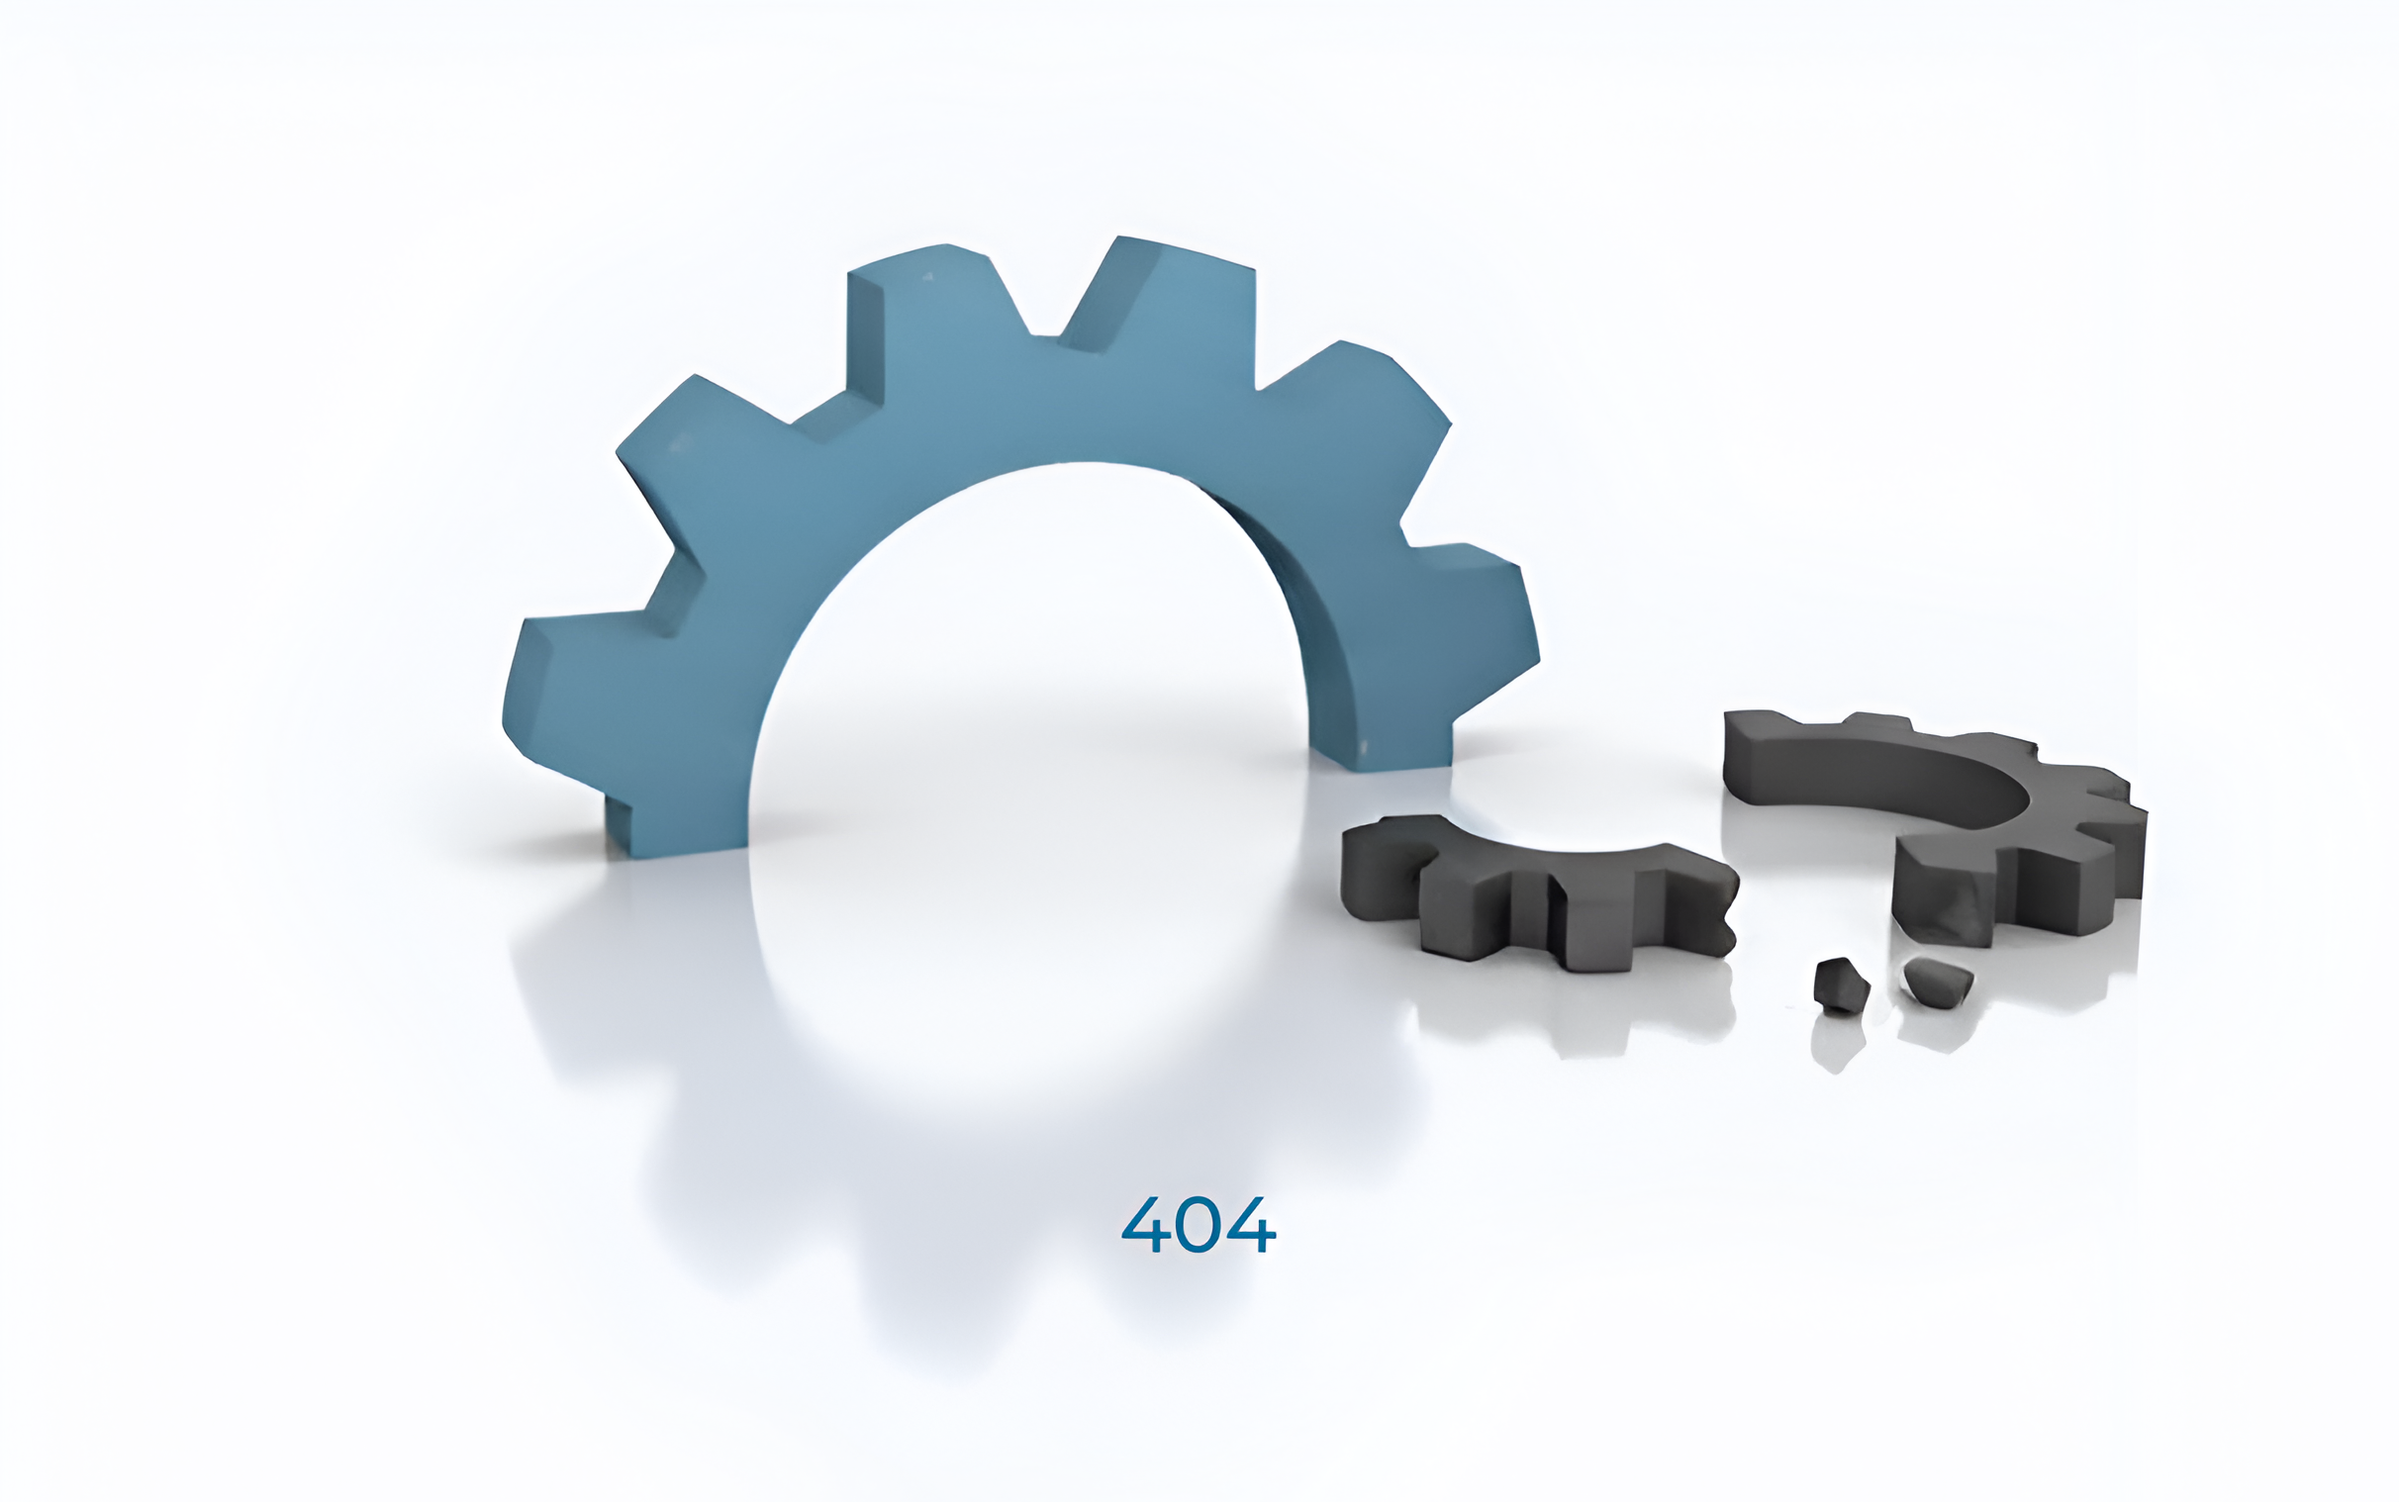
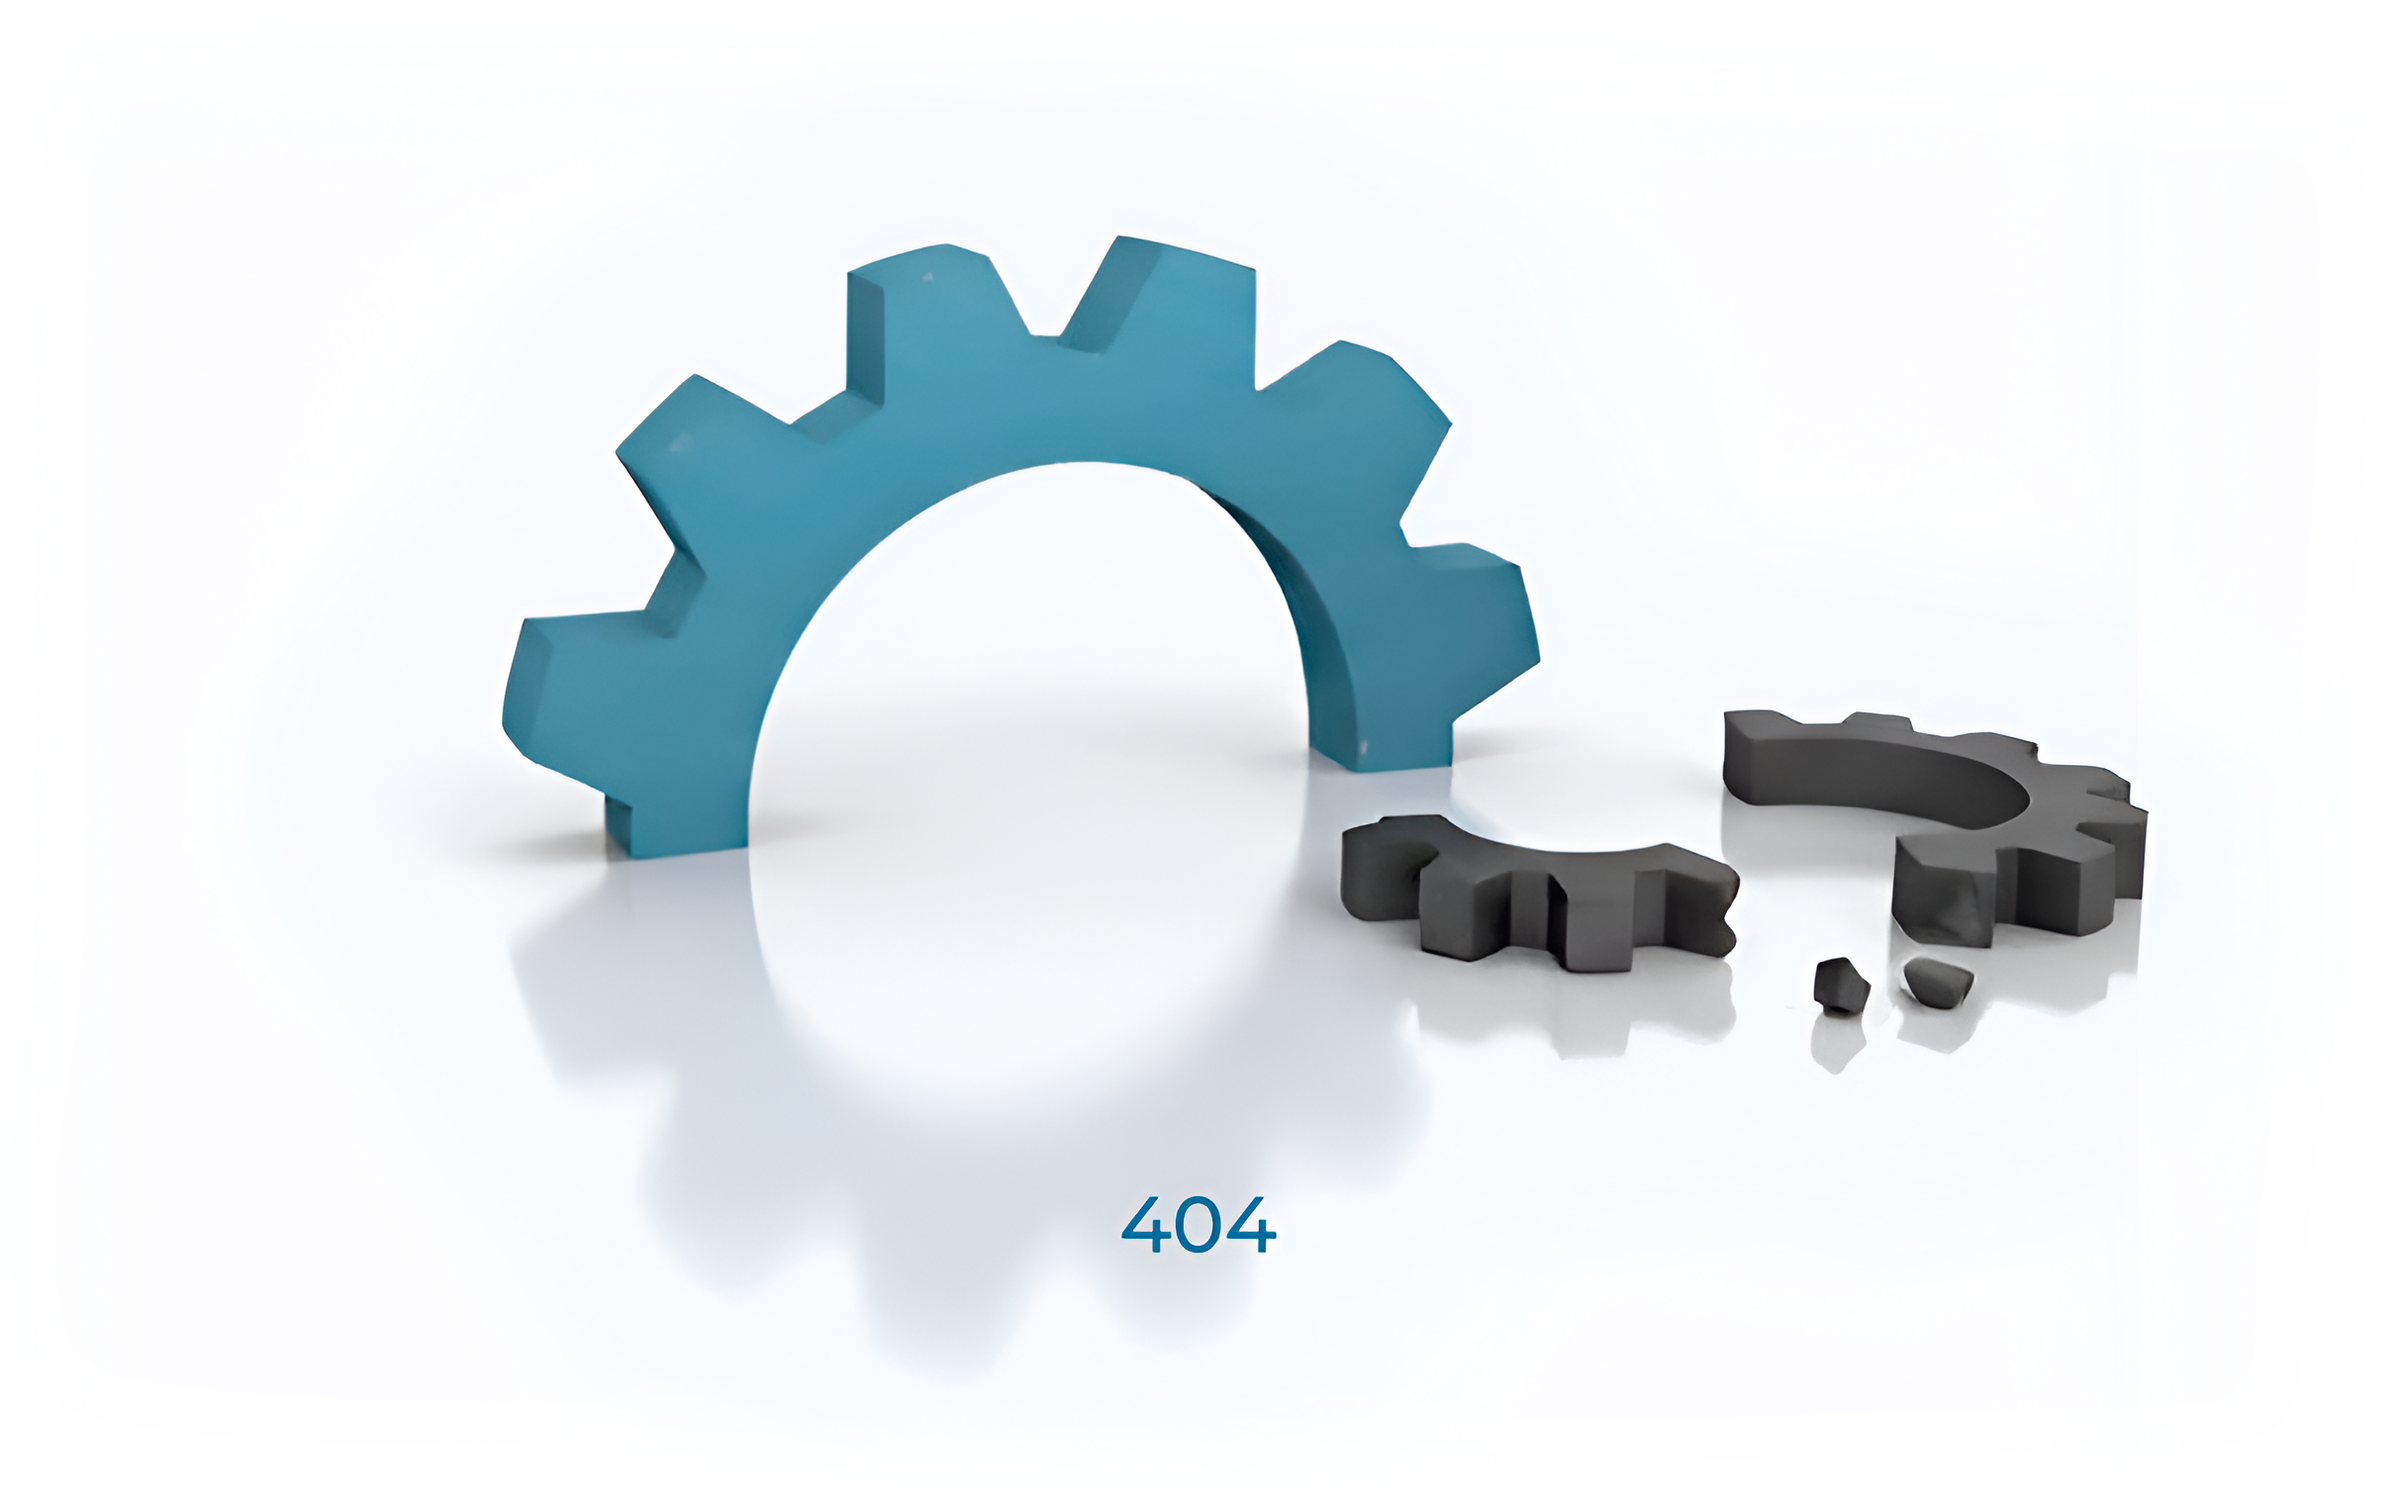
Updated

Changed region(s): [[0.1856, 0.1548, 0.6498, 0.5883]]

diff --git a/style.css b/style.css
@@ -203,7 +203,7 @@ body {
 .Error {
     width: 60%;
       mix-blend-mode: multiply;
-      filter: saturate(1.5);
+      filter: saturate(1.2);
 }
 
 .Error-Group {
